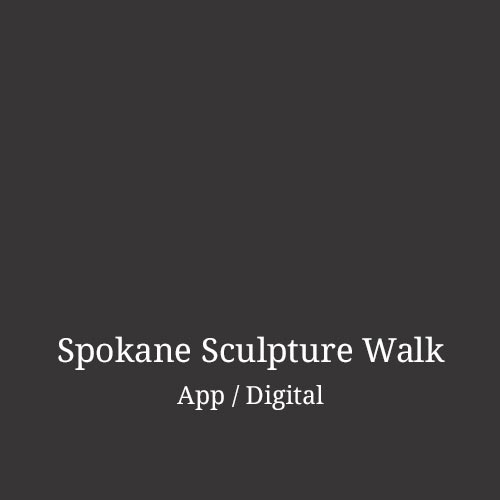
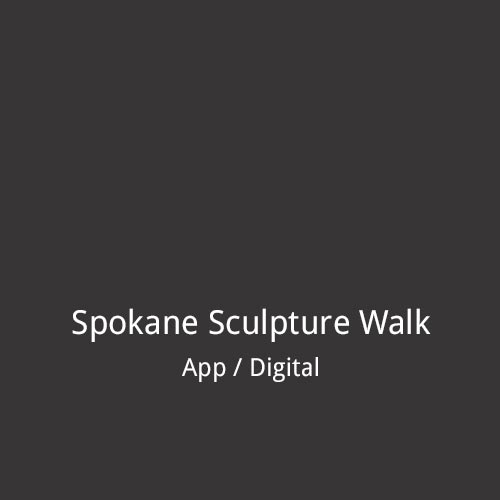
Pictures

Changed region(s): [[0.12, 0.6, 0.9, 0.84]]

diff --git a/css/styles.css b/css/styles.css
@@ -75,11 +75,11 @@ nav a:hover {
 
 .ui.grid {
   margin: 4rem;
-  font-family: 'Droid Serif', serif;
+  font-family: 'Droid Sans', sans-serif;
   font-size: 1em;
   text-align: center;
-  margin-right: 35%;
-  margin-left: 35%;
+  margin-right: 25%;
+  margin-left: 25%;
 }
 
 h1 {
@@ -112,6 +112,7 @@ p {
 	margin-right: 25%;
 	margin-top: 50px;
 	margin-bottom: 75px;
+	display: inline-block;
 }
 
 
@@ -205,6 +206,17 @@ hr {
  	margin-right: 15%;
  }
 
+ .ui.grid {
+ 	margin-left: 15%;
+ 	margin-right: 15%;
+ 	font-family: 'Droid Sans', sans-serif;
+ }
+
+ .ui.images.fade.reveal {
+	margin-left: 15%;
+	margin-right: 15%;
+ }	
+
 }
 @media screen and (max-width: 800px) {
 
@@ -239,9 +251,20 @@ hr {
  }
 
  .ui.images {
-		margin-left: 5%;
-		margin-right: 5%;
-		margin-top: 50px;
+	margin-left: 5%;
+	margin-right: 5%;
+	margin-top: 50px;
 	}
+
+.ui.grid {
+    margin-left: 5%;
+ 	margin-right: 5%;
+ 	font-family: 'Droid Sans', sans-serif;
+ }
+
+ .ui.images.fade.reveal {
+	margin-left: 5%;
+	margin-right: 5%;
+ }	
 
 }

diff --git a/index.html b/index.html
@@ -43,7 +43,7 @@
     <img src="img/Pic-4.jpg">
     <img src="img/Pic-5.jpg">
     <img class="bottom" src="img/Pic-6.jpg">
-  </div>
+</div>
   
 <div class="container">
   
